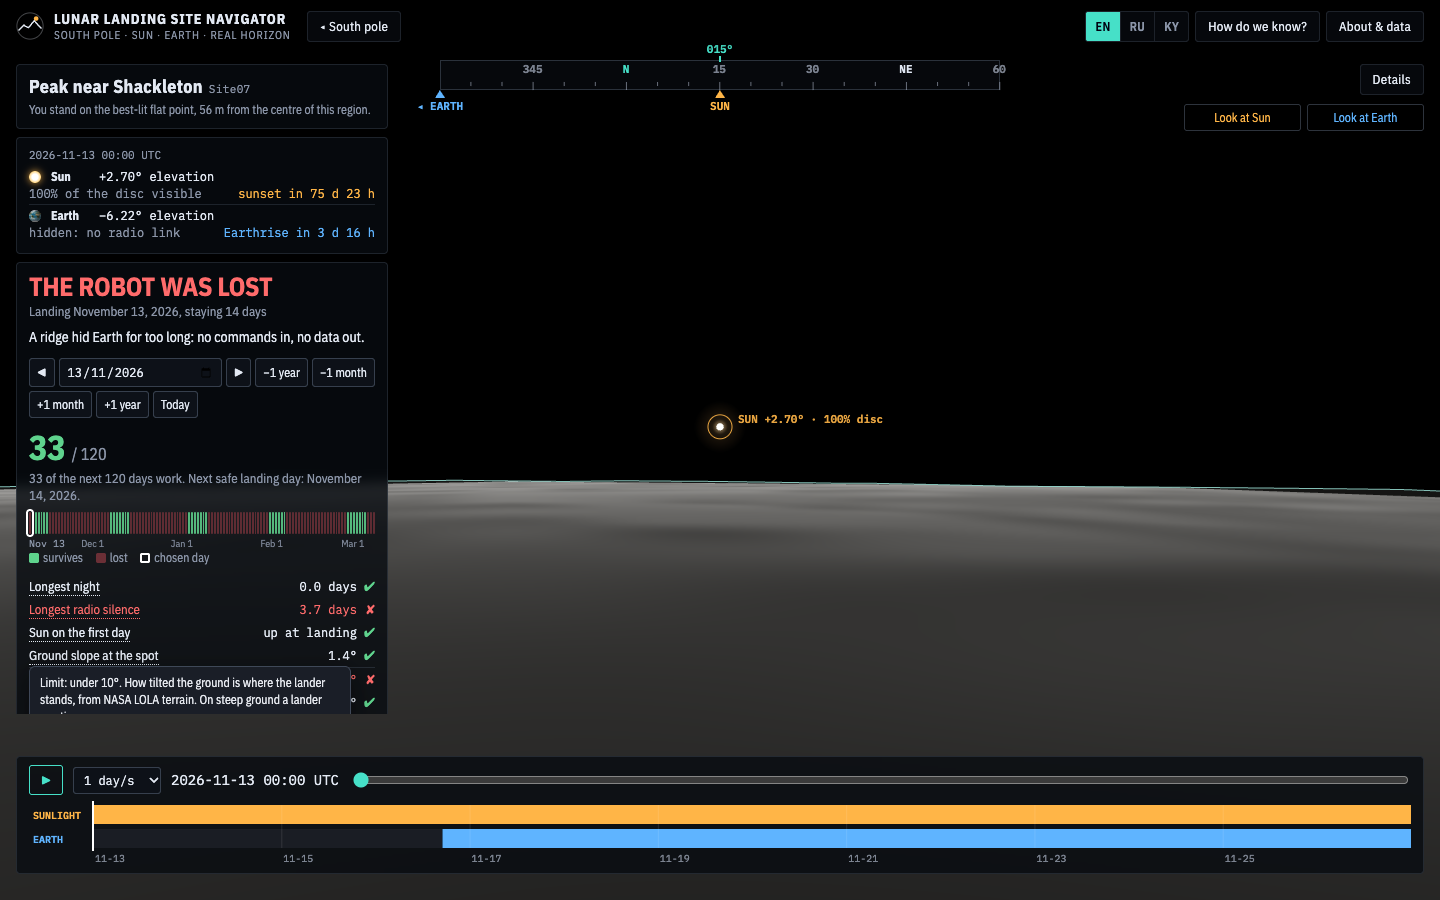
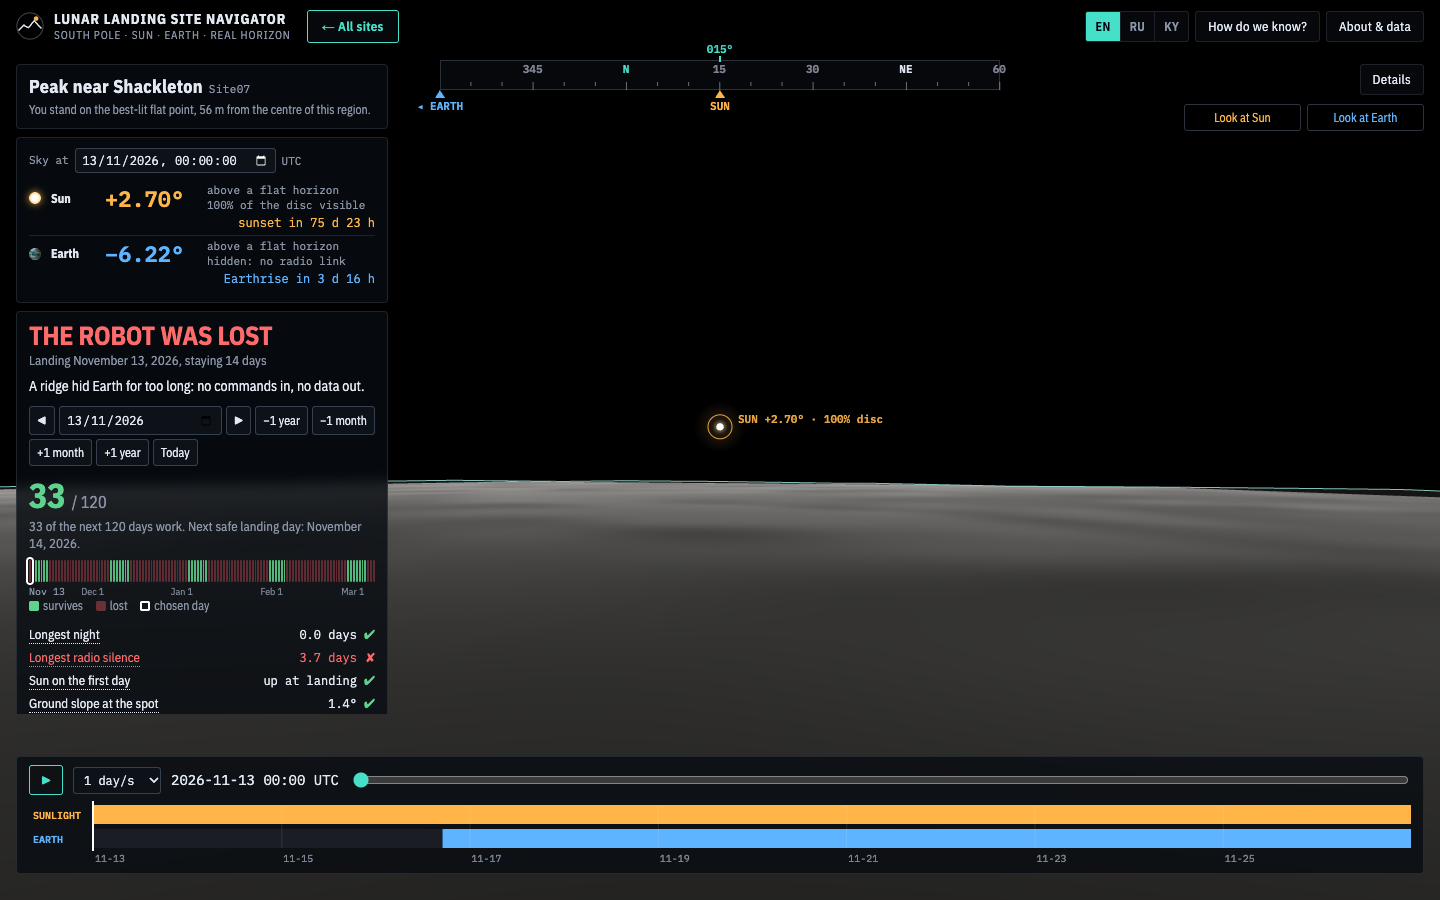
Site screen: sky at any moment to the second, a back button that says All sites, visible scrollbars, Sun and Earth readout in three languages with large elevation numbers
Smoke test also checks that the Moon and Earth carry their real pictures and that the app opens from a whole-Moon distance.

Changed region(s): [[0.0, 0.1556, 0.2812, 0.8089], [0.2188, 0.0, 0.2812, 0.0622], [0.1875, 0.4667, 0.25, 0.4978]]

diff --git a/app/src/main.js b/app/src/main.js
@@ -243,10 +243,12 @@ function renderHud(s) {
   const lit = s.sunFrac > 0;
   // Always in view (the challenge's core output): where the Sun and Earth stand against the real horizon at the moment shown,
   // and how long until that changes.
-  const line = (cls, name, el, over, state, next) => `<div class="${cls}"><i></i><b>${name}</b><span title="${fmtDeg(over)} above the terrain in that direction">${fmtDeg(el)} elevation</span><span>${state}</span><em>${next}</em></div>`;
-  $('skybar').innerHTML = `<p>${fmtUTC(s.t)}</p>`
-    + line('sun', 'Sun', s.sunEl, s.sunEl - s.sunMask, `${(s.sunFrac * 100).toFixed(0)}% of the disc visible`, ns == null ? '' : `${lit ? 'sunset in' : 'sunrise in'} ${fmtDuration(ns - s.t)}`)
-    + line('earth', 'Earth', s.earthEl, s.earthEl - s.earthMask, s.earthVis ? 'in view: radio link' : 'hidden: no radio link', ne == null ? '' : `${s.earthVis ? 'Earthset in' : 'Earthrise in'} ${fmtDuration(ne - s.t)}`);
+  const T = globalThis.I18n.t;
+  const line = (cls, name, el, over, state, next) => `<div class="${cls}"><i></i><b>${name}</b><strong title="${fmtDeg(over)} above the terrain in that direction">${fmtDeg(el)}</strong><span>${T('sElev')}<br>${state}</span><em>${next}</em></div>`;
+  $('sky-at').firstElementChild.textContent = T('sAt');
+  if (document.activeElement !== $('sky-when')) $('sky-when').value = new Date(s.t * 1000).toISOString().slice(0, 19); // to the second; typing is not overwritten
+  $('sky-lines').innerHTML = line('sun', T('sSun'), s.sunEl, s.sunEl - s.sunMask, T('sDisc', { p: (s.sunFrac * 100).toFixed(0) }), ns == null ? '' : `${T(lit ? 'sSunset' : 'sSunrise')} ${fmtDuration(ns - s.t)}`)
+    + line('earth', T('sEarth'), s.earthEl, s.earthEl - s.earthMask, T(s.earthVis ? 'sIn' : 'sHid'), ne == null ? '' : `${T(s.earthVis ? 'sEset' : 'sErise')} ${fmtDuration(ne - s.t)}`);
   $('h-sun-next').innerHTML = ns == null ? `<span class="muted">No change before end of data (${S.index.period.end.slice(0, 10)})</span>`
     : `${lit ? 'Sunlight lost in' : 'Sunlight returns in'} <b>${fmtDuration(ns - s.t)}</b>`;
   $('h-earth-next').innerHTML = ne == null ? `<span class="muted">No change before end of data</span>`
@@ -298,6 +300,15 @@ $('m-start').addEventListener('change', (e) => {
 });
 $('m-days').addEventListener('change', (e) => { S.missionDays = +e.target.value; refreshMission(); setHash(); });
 $('back').addEventListener('click', backToMap);
+// Any moment, to the second: the sky and the numbers move there; a moment outside the stay moves the landing to that day.
+$('sky-when').addEventListener('change', (e) => {
+  const t = Date.parse(e.target.value + 'Z') / 1000;
+  if (!Number.isFinite(t)) return;
+  const c = Math.min(Math.max(t, periodStart()), periodEnd() - S.missionDays * 86400);
+  S.playing = false; $('play').textContent = '▶';
+  if (c < S.missionStart || c > missionEnd()) { S.missionStart = Math.floor(c / 86400) * 86400; S.t = c; refreshMission(); setHash(); }
+  setTime(c);
+});
 for (const b of $('h-variant').querySelectorAll('button')) b.addEventListener('click', () => switchVariant(b.dataset.v));
 
 // view options
@@ -544,7 +555,7 @@ function frame(now) {
     // Three visible buttons, the current language lit: a closed dropdown did not say what it was for.
     sel.innerHTML = Object.entries(I18n.NAMES).map(([k, v]) => `<button data-l="${k}" title="${v}">${k.toUpperCase()}</button>`).join('');
     const mark = () => { for (const b of sel.children) b.classList.toggle('on', b.dataset.l === I18n.lang); };
-    for (const b of sel.children) b.onclick = () => { I18n.set(b.dataset.l); try { localStorage.setItem('lang', b.dataset.l); } catch (e) { /* storage blocked */ } mark(); drawVerdict(); S.all?.redraw(); };
+    for (const b of sel.children) b.onclick = () => { I18n.set(b.dataset.l); try { localStorage.setItem('lang', b.dataset.l); } catch (e) { /* storage blocked */ } mark(); drawVerdict(); S.all?.redraw(); S.dirty = true; };
     mark();
     const ov = await loadOverview(S.index);
     overview.build(ov, S.index.sites);

diff --git a/app/i18n.js b/app/i18n.js
@@ -3,6 +3,17 @@
 (function (root) {
   const S = {
   "en": {
+    "sAt": "Sky at",
+    "sSun": "Sun",
+    "sEarth": "Earth",
+    "sElev": "above a flat horizon",
+    "sDisc": "{p}% of the disc visible",
+    "sIn": "in view: radio link",
+    "sHid": "hidden: no radio link",
+    "sSunset": "sunset in",
+    "sSunrise": "sunrise in",
+    "sEset": "Earthset in",
+    "sErise": "Earthrise in",
     "aPlay": "Play the sunlight over this period",
     "a1m": "Next month",
     "a2w": "Next 2 weeks",
@@ -78,6 +89,17 @@
     "vYear": "year"
   },
   "ru": {
+    "sAt": "Небо на",
+    "sSun": "Солнце",
+    "sEarth": "Земля",
+    "sElev": "над ровным горизонтом",
+    "sDisc": "видно {p}% диска",
+    "sIn": "видна: связь есть",
+    "sHid": "скрыта: связи нет",
+    "sSunset": "закат через",
+    "sSunrise": "восход через",
+    "sEset": "заход Земли через",
+    "sErise": "восход Земли через",
     "aPlay": "Показать движение света за этот период",
     "a1m": "Месяц вперёд",
     "a2w": "2 недели вперёд",
@@ -153,6 +175,17 @@
     "vYear": "год"
   },
   "ky": {
+    "sAt": "Асман",
+    "sSun": "Күн",
+    "sEarth": "Жер",
+    "sElev": "тегиз горизонттон жогору",
+    "sDisc": "дисктин {p}% көрүнөт",
+    "sIn": "көрүнөт: байланыш бар",
+    "sHid": "жашырылган: байланыш жок",
+    "sSunset": "батышына",
+    "sSunrise": "чыгышына",
+    "sEset": "Жердин батышына",
+    "sErise": "Жердин чыгышына",
     "aPlay": "Ушул мезгилдеги жарыктын жылышын көрсөтүү",
     "a1m": "Бир ай алдыга",
     "a2w": "2 жума алдыга",

diff --git a/app/css/app.css b/app/css/app.css
@@ -311,3 +311,14 @@ body.mode-surface .skymark { display: none !important; }
 .skymark::before { content: ""; width: 16px; height: 16px; border-radius: 50%; flex: none; }
 .skymark.sun::before { background: radial-gradient(#fff 40%, #fff3c4 75%); box-shadow: 0 0 10px 2px #fff; }
 .skymark.earth::before { background: url(../data/earth.jpg) 38% 50% / 200% 100%; box-shadow: inset -4px -2px 5px rgba(0,0,0,.65); }
+/* a way back that says where it goes; panels that scroll show it */
+#back { border-color: var(--teal); color: var(--teal); font-weight: 600; padding: 7px 14px; }
+#hud, #sitelist, #panel { scrollbar-width: thin; scrollbar-color: rgba(70,224,200,.7) rgba(255,255,255,.06); }
+#hud { overflow-y: scroll; }
+#hud::-webkit-scrollbar, #sitelist::-webkit-scrollbar { width: 10px; }
+#hud::-webkit-scrollbar-track, #sitelist::-webkit-scrollbar-track { background: rgba(255,255,255,.06); border-radius: 5px; }
+#hud::-webkit-scrollbar-thumb, #sitelist::-webkit-scrollbar-thumb { background: rgba(70,224,200,.7); border-radius: 5px; }
+#sky-at { display: flex; align-items: center; gap: 6px; font: 11px var(--mono); color: var(--muted); margin-bottom: 4px; }
+#sky-when { background: #0d1118; border: 1px solid var(--line-2); border-radius: 3px; padding: 3px 6px; color: var(--text); font: 12px var(--mono); color-scheme: dark; }
+#skybar strong { font: 600 22px var(--mono); min-width: 92px; } #skybar .sun strong { color: var(--sun); } #skybar .earth strong { color: var(--earth); }
+#skybar span { font-size: 11px; line-height: 1.35; color: var(--muted); } #skybar b { width: auto; min-width: 44px; }

diff --git a/app/index.html b/app/index.html
@@ -25,7 +25,7 @@
       <div class="sub">South pole · Sun · Earth · real horizon</div>
     </div>
   </div>
-  <button id="back" class="ghost surface-only" title="Back to the south-pole map">◂ South pole</button>
+  <button id="back" class="ghost surface-only" title="Back to the Moon with all sites">← All sites</button>
   <nav>
     <div id="lang" role="group" aria-label="Language"></div>
     <button data-panel="validation">How do we know?</button>
@@ -36,7 +36,7 @@
 <aside id="sitelist" class="overview-only"></aside>
 
 <section id="hud" class="surface-only">
-  <div id="skybar" aria-live="off"></div>
+  <div id="skybar"><label id="sky-at"><span></span> <input id="sky-when" type="datetime-local" step="1"> UTC</label><div id="sky-lines"></div></div>
   <div id="verdict" class="verdict"></div>
   <div class="hud-site">
     <div class="site-name" id="h-name">—</div>

diff --git a/app/src/overview.js b/app/src/overview.js
@@ -206,7 +206,7 @@ export class Overview {
   /** Opening move: from far enough to see the whole Moon, down to the south pole. */
   intro(ms = 3200) {
     const d1 = this.dist, d0 = 7.5e6, t0 = performance.now();
-    this.dist = d0;
+    this.dist = d0; this.introFrom = d0;
     this.anim = (now) => {
       const u = Math.min((now - t0) / ms, 1), e = 1 - Math.pow(1 - u, 3);
       this.dist = Math.exp(Math.log(d0) + (Math.log(d1) - Math.log(d0)) * e);
